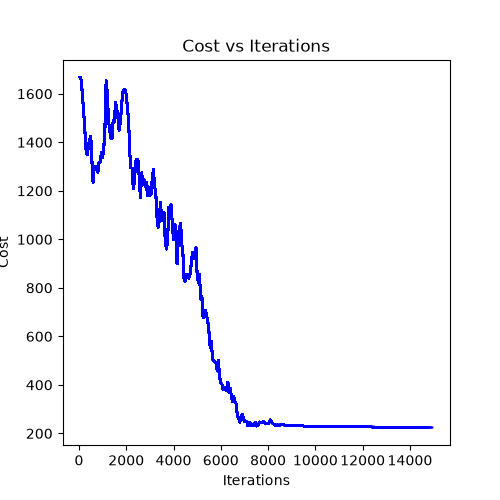
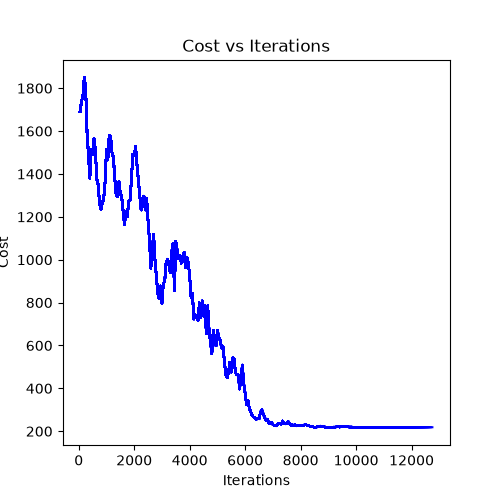
updated main to support dynamic json parsing and file loading

diff --git a/app/main.py b/app/main.py
@@ -1,48 +1,39 @@
 import tkinter as tk
-from app.core.models import Block, Net, Floorplan
+from tkinter import filedialog
+from app.core.models import Floorplan
 from app.algorithms.annealing import SimulatedAnnealer
 from app.ui.visualizer import Visualizer
+from app.core.parser import load_floorplan_from_json
 
 def main():
-    # 1. Setup blocks (scaled up slightly so they are easier to see on screen)
-    alu = Block("ALU", width=80, height=60, x=0, y=0)
-    reg = Block("REG", width=40, height=40, x=300, y=300)
-    cache = Block("CACHE", width=100, height=80, x=100, y=500)
-    mux = Block("MUX", width=30, height=20, x=400, y=100)
-    ctrl = Block("CTRL", width=40, height=30, x=500, y=300)
-
-    # 2. Define the wires connecting them
-    nets = [
-        Net("ALU_to_REG", [alu, reg]),
-        Net("ALU_to_MUX", [alu, mux]),
-        Net("REG_to_CACHE", [reg, cache]),
-        Net("MUX_to_CTRL", [mux, ctrl])
-    ]
-
-    # 3. Assemble the chip floorplan
-    floorplan = Floorplan(blocks=[alu, reg, cache, mux, ctrl], nets=nets)
-
-    # 4. Setup the UI Window
     root = tk.Tk()
     
-    # Callback for the UI to redraw and plot data during optimization
+    # Start with an empty floorplan
+    current_floorplan = Floorplan(blocks=[], nets=[])
+    
     def on_update(current_plan, current_cost, current_temp, iteration):
         ui.draw_floorplan(current_plan, current_cost, current_temp, iteration)
 
-    # What happens when you click the 'Run Optimizer' button
     def start_optimization():
         ui.btn_opt.config(state=tk.DISABLED, text="Optimizing...")
-        ui.reset_plot()  # Clear the graph for a fresh run
-        
+        ui.reset_plot()
         optimizer = SimulatedAnnealer(initial_temp=5000.0, cooling_rate=0.999)
-        optimizer.optimize(floorplan, iterations=15000, update_callback=on_update)
-        
+        optimizer.optimize(current_floorplan, iterations=15000, update_callback=on_update)
         ui.btn_opt.config(state=tk.NORMAL, text="Run Optimizer")
 
-    # Pass the button command into the Visualizer
-    ui = Visualizer(root, floorplan, start_cb=start_optimization)
+    def load_file():
+        nonlocal current_floorplan
+        filepath = filedialog.askopenfilename(
+            title="Select Chip Layout",
+            filetypes=(("JSON files", "*.json"), ("All files", "*.*"))
+        )
+        if filepath:
+            current_floorplan = load_floorplan_from_json(filepath)
+            ui.set_new_floorplan(current_floorplan)
 
-    # 5. Start the application loop
+    # Pass both callbacks to the Visualizer
+    ui = Visualizer(root, current_floorplan, start_cb=start_optimization, load_cb=load_file)
+
     root.mainloop()
 
 if __name__ == "__main__":

diff --git a/app/ui/visualizer.py b/app/ui/visualizer.py
@@ -7,7 +7,7 @@ from app.core.models import Floorplan
 from app.metrics.cost import calculate_total_cost
 
 class Visualizer:
-    def __init__(self, master_window, initial_plan: Floorplan, start_cb=None):
+    def __init__(self, master_window, initial_plan: Floorplan, start_cb=None, load_cb=None):
         self.master = master_window
         self.master.title("SiliconMap - Live Optimization")
         self.plan = initial_plan
@@ -22,12 +22,16 @@ class Visualizer:
         self.right_frame = tk.Frame(self.main_frame)
         self.right_frame.pack(side=tk.RIGHT, fill=tk.BOTH, expand=True)
         
+        # controls and drawing canvas
+        if load_cb:
+            self.btn_load = tk.Button(self.left_frame, text="Load JSON File", command=load_cb, font=("Arial", 14))
+            self.btn_load.pack(pady=5)
+        
         # 2. Controls and Drawing Canvas
         if start_cb:
             self.btn_opt = tk.Button(self.left_frame, text="Run Optimizer", command=start_cb, font=("Arial", 14))
             self.btn_opt.pack(pady=5)
             
-        # NEW: Export Button
         self.btn_export = tk.Button(self.left_frame, text="Save Results", command=self.export_results, font=("Arial", 14))
         self.btn_export.pack(pady=5)
 
@@ -55,6 +59,11 @@ class Visualizer:
         self.canvas.bind("<B1-Motion>", self.on_mouse_drag)
         self.canvas.bind("<ButtonRelease-1>", self.on_mouse_up)
 
+        self.draw_floorplan(self.plan, calculate_total_cost(self.plan))
+        
+    def set_new_floorplan(self, new_plan: Floorplan):
+        self.plan = new_plan
+        self.reset_plot()
         self.draw_floorplan(self.plan, calculate_total_cost(self.plan))
 
     def reset_plot(self):

diff --git a/app/core/parser.py b/app/core/parser.py
@@ -1,0 +1,30 @@
+import json
+from app.core.models import Block, Net, Floorplan
+
+def load_floorplan_from_json(filepath: str) -> Floorplan:
+    with open(filepath, 'r') as f:
+        data = json.load(f)
+        
+    blocks_dict = {}
+    
+    # 1. Parse all blocks
+    for b_data in data.get("blocks", []):
+        block = Block(
+            name=b_data["name"],
+            width=b_data["width"],
+            height=b_data["height"],
+            x=b_data.get("x", 0.0),
+            y=b_data.get("y", 0.0)
+        )
+        blocks_dict[block.name] = block
+        
+    # 2. Parse all nets and link them to the blocks
+    nets = []
+    for n_data in data.get("nets", []):
+        connected_blocks = []
+        for b_name in n_data.get("blocks", []):
+            if b_name in blocks_dict:
+                connected_blocks.append(blocks_dict[b_name])
+        nets.append(Net(name=n_data["name"], connected_blocks=connected_blocks))
+        
+    return Floorplan(blocks=list(blocks_dict.values()), nets=nets)
